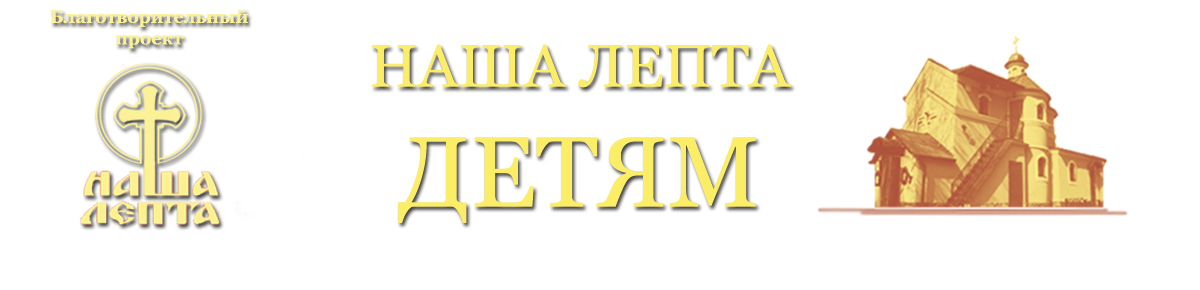
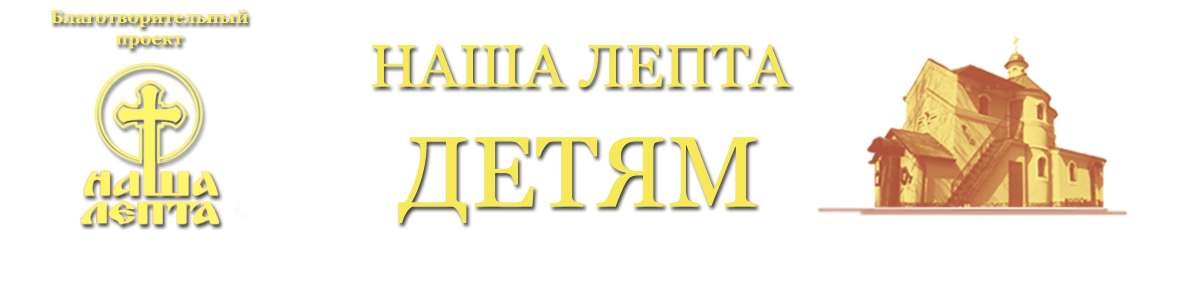
color changes for button, menu, and slider from Nadezhda

Changed region(s): [[0.0617, 0.2172, 0.185, 0.7759], [0.0308, 0.031, 0.2158, 0.0931], [0.0925, 0.1241, 0.1542, 0.1552]]

diff --git a/public/styles/main.css b/public/styles/main.css
@@ -23,7 +23,7 @@ h1, h2, h3, h4, h5, h6 {
 h1,
 h4
 {
-  color: #ffff99;
+  color: #FFCC00;
   text-shadow: 1px 1px 3px #000;
   min-height: 20px;
   margin-bottom: 20px;
@@ -92,13 +92,13 @@ input[type="color"],
 
 /*BUTTONS start*/
 .btn {
-  background-image: -moz-linear-gradient(top, #00F846, #00AB31);
-  background-image: -ms-linear-gradient(top, #00F846, #00AB31);
-  background-image: -webkit-gradient(linear, 0 0, 0 100%, from(#00F846), to(#00AB31));
-  background-image: -webkit-linear-gradient(top, #00F846, #00AB31);
-  background-image: -o-linear-gradient(top, #00F846, #00AB31);
-  background-image: linear-gradient(top, #00F846, #00AB31);
-  color: #ffff99;
+  background-image: -moz-linear-gradient(top, #63CF0B, #4B9C08);
+  background-image: -ms-linear-gradient(top, #63CF0B, #4B9C08);
+  background-image: -webkit-gradient(linear, 0 0, 0 100%, from(#63CF0B), to(#4B9C08));
+  background-image: -webkit-linear-gradient(top, #63CF0B, #4B9C08);
+  background-image: -o-linear-gradient(top, #63CF0B, #4B9C08);
+  background-image: linear-gradient(top, #63CF0B, #4B9C08);
+  color: #FFCC00;
 }
 
 a > h1, button > h1,
@@ -107,7 +107,7 @@ a > h3, button > h3,
 a > h4, button > h4,
 a > h5, button > h5,
 a > h6, button > h6 {
-  color: #ffff99;
+  color: #FFCC00;
 }
 
 .btn-link {
@@ -120,9 +120,9 @@ a > h6, button > h6 {
 }
 
 .btn-primary {
-  background-color: #00F846;
+  background-color: #63CF0B;
   border-color: #45BD32;
-  color: #ffff99;
+  color: #FFCC00;
 }
 
 .btn-primary:hover,
@@ -378,7 +378,7 @@ a > h6, button > h6 {
 
 /*NAVBAR start*/
 .navbar-default .navbar-nav > .active > a, .navbar-default .navbar-nav > .active > a:hover, .navbar-default .navbar-nav > .active > a:focus {
-  background-color: #F9F619 !important;
+  background-color: #FFCC00 !important;
 }
 
 ul.nav li.active a, .navbar-default .navbar-nav > li > a:hover, .navbar-default .navbar-nav > li > a:focus {
@@ -386,11 +386,11 @@ ul.nav li.active a, .navbar-default .navbar-nav > li > a:hover, .navbar-default 
 }
 
 .navbar-default .navbar-nav > li > a {
-  color: #ffff99;
+  color: #FFCC00;
 }
 
 .navbar-default .navbar-nav > .open > a, .navbar-default .navbar-nav > .open > a:hover, .navbar-default .navbar-nav > .open > a:focus {
-  background-color: #F9F619;
+  background-color: #FFCC00;
 ;
   color: #00B233;
 }
@@ -402,16 +402,16 @@ ul.nav li.active a, .navbar-default .navbar-nav > li > a:hover, .navbar-default 
 
 
 .navbar-inner {
-  background-image: -moz-linear-gradient(top, #ff0000, #F9F619);
-  background-image: -ms-linear-gradient(top, #ff0000, #F9F619);
-  background-image: -webkit-gradient(linear, 0 0, 0 100%, from(#ff0000), to(#F9F619));
-  background-image: -webkit-linear-gradient(top, #ff0000, #F9F619);
-  background-image: -o-linear-gradient(top, #ff0000, #F9F619);
-  background-image: linear-gradient(top, #ff0000, #F9F619);
+  background-image: -moz-linear-gradient(top, #ff0000, #FFCC00);
+  background-image: -ms-linear-gradient(top, #ff0000, #FFCC00);
+  background-image: -webkit-gradient(linear, 0 0, 0 100%, from(#ff0000), to(#FFCC00));
+  background-image: -webkit-linear-gradient(top, #ff0000, #FFCC00);
+  background-image: -o-linear-gradient(top, #ff0000, #FFCC00);
+  background-image: linear-gradient(top, #ff0000, #FFCC00);
 }
 
 .navbar .brand {
-  color: #ffff99;
+  color: #FFCC00;
   font-size: 20px;
   padding: 8px 20px 12px;
 }
@@ -423,17 +423,17 @@ ul.nav li.active a, .navbar-default .navbar-nav > li > a:hover, .navbar-default 
 }
 
 .navbar .nav > li > a {
-  color: #F9F619;
+  color: #FFCC00;
   font-size: 1.167em;
   padding: 10px 10px 11px;
-  border-left: 1px solid #F9F619;
-  border-right: 1px solid #F9F619
+  border-left: 1px solid #FFCC00;
+  border-right: 1px solid #FFCC00
 }
 
 .navbar .nav > .active > a,
 .navbar .nav > .active > a:hover,
 .navbar .nav > .active > a:focus {
-  color: #F9F619;
+  color: #FFCC00;
 }
 
 .navbar-nav li > .dropdown-menu
@@ -463,10 +463,10 @@ ul.nav li.active a, .navbar-default .navbar-nav > li > a:hover, .navbar-default 
 }
 
 .nl_grad_vertical {
-  background: -webkit-linear-gradient(to bottom, #ff0000 0%,#ff0000 20%, #ffff99 100%); /* For Safari 5.1 to 6.0 */
-  background: -o-linear-gradient(to bottom, #ff0000 0%,#ff0000 20%, #ffff99 100%); /* For Opera 11.1 to 12.0 */
-  background: -moz-linear-gradient(to bottom, #ff0000 0%,#ff0000 20%, #ffff99 100%); /* For Firefox 3.6 to 15 */
-  background: linear-gradient(to bottom, #ff0000 0%,#ff0000 20%, #ffff99 100%); /* Standard syntax */
+  background: -webkit-linear-gradient(to bottom, #ff0000 0%,#ff0000 70%, #ffff99 100%); /* For Safari 5.1 to 6.0 */
+  background: -o-linear-gradient(to bottom, #ff0000 0%,#ff0000 70%, #ffff99 100%); /* For Opera 11.1 to 12.0 */
+  background: -moz-linear-gradient(to bottom, #ff0000 0%,#ff0000 70%, #ffff99 100%); /* For Firefox 3.6 to 15 */
+  background: linear-gradient(to bottom, #ff0000 0%,#ff0000 70%, #ffff99 100%); /* Standard syntax */
 }
 
 .nl_grad_vertical_reverse {
@@ -484,7 +484,7 @@ ul.nav li.active a, .navbar-default .navbar-nav > li > a:hover, .navbar-default 
   height: auto !important;
   height: 100%;
   /* This line and the next line are not necessary unless you need IE6 support */
-  margin: 51px auto -50px auto;
+  margin: 50px auto -50px auto;
   min-height: 100%;
   /* the bottom margin is the negative value of the footer's height */
 }
@@ -520,7 +520,7 @@ ul.nav li.active a, .navbar-default .navbar-nav > li > a:hover, .navbar-default 
 
 
   .green-border{
-    border: 4px solid #00F846;
+    border: 4px solid #63CF0B;
   }
 
 
@@ -775,7 +775,7 @@ ul.nav li.active a, .navbar-default .navbar-nav > li > a:hover, .navbar-default 
   }
 
   .green-border{
-    border: 4px solid #00F846;
+    border: 4px solid #63CF0B;
   }
 }
 
@@ -800,12 +800,12 @@ ul.nav li.active a, .navbar-default .navbar-nav > li > a:hover, .navbar-default 
   /*}*/
 
   .green-border{
-    border: 4px solid #00F846;
+    border: 4px solid #63CF0B;
   }
 
 
   .vishivanka-border {
-    /*border: 6px solid #00F846;*/
+    /*border: 6px solid #63CF0B;*/
     /*-moz-border-image-slice: 6 6 6 6;*/
     /*-moz-border-image-width: 6px 6px 6px 6px;*/
     /*-moz-border-image-outset: 0px 0px 0px 0px;*/
@@ -836,12 +836,12 @@ ul.nav li.active a, .navbar-default .navbar-nav > li > a:hover, .navbar-default 
 @media (min-width: 768px) and (max-width: 979px) {
 
   .green-border{
-    border: 4px solid #00F846;
+    border: 4px solid #63CF0B;
   }
 
 
   .vishivanka-border {
-    /*border: 12px solid #00F846;*/
+    /*border: 12px solid #63CF0B;*/
     /*-moz-border-image-slice: 6 6 6 6;*/
     /*-moz-border-image-width: 6px 6px 6px 6px;*/
     /*-moz-border-image-outset: 0px 0px 0px 0px;*/
@@ -871,33 +871,33 @@ ul.nav li.active a, .navbar-default .navbar-nav > li > a:hover, .navbar-default 
 /* Landscape phone to portrait tablet */
 @media (max-width: 767px) {
   .navbar-default .navbar-nav .open .dropdown-menu > li > a {
-    color: #F9F619;
+    color: #FFCC00;
     background-color: #ff0000;
   }
 
   .navbar-default .navbar-nav .open .dropdown-menu > li > a:hover, .navbar-default .navbar-nav .open .dropdown-menu > li > a:focus {
     background-color: #ff0000;
-    color: #F9F619;
+    color: #FFCC00;
   }
 
   .navbar-default .navbar-nav .open .dropdown-menu > .active > a, .navbar-default .navbar-nav .open .dropdown-menu > .active > a:hover, .navbar-default .navbar-nav .open .dropdown-menu > .active > a:focus {
-    background-color: #F9F619;
+    background-color: #FFCC00;
   }
 }
 
 /* Landscape phones and down */
 @media (max-width: 480px) {
   .navbar-default .navbar-nav .open .dropdown-menu > li > a {
-    color: #F9F619;
+    color: #FFCC00;
     background-color: #ff0000;
   }
 
   .navbar-default .navbar-nav .open .dropdown-menu > li > a:hover, .navbar-default .navbar-nav .open .dropdown-menu > li > a:focus {
     background-color: #ff0000;
-    color: #F9F619;
+    color: #FFCC00;
   }
 
   .navbar-default .navbar-nav .open .dropdown-menu > .active > a, .navbar-default .navbar-nav .open .dropdown-menu > .active > a:hover, .navbar-default .navbar-nav .open .dropdown-menu > .active > a:focus {
-    background-color: #F9F619;
+    background-color: #FFCC00;
   }
 }
